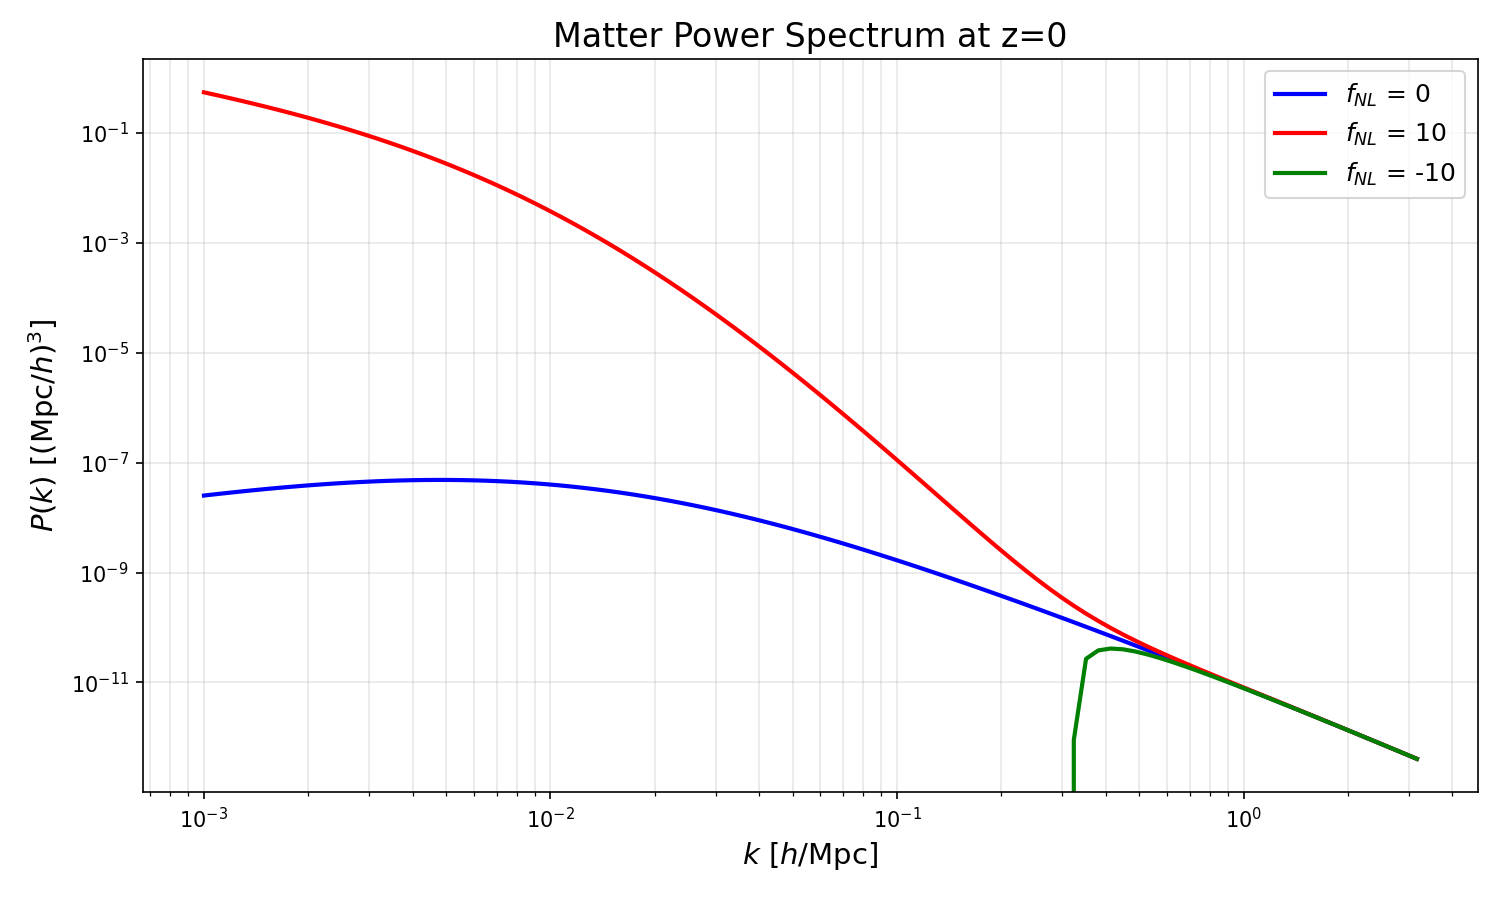
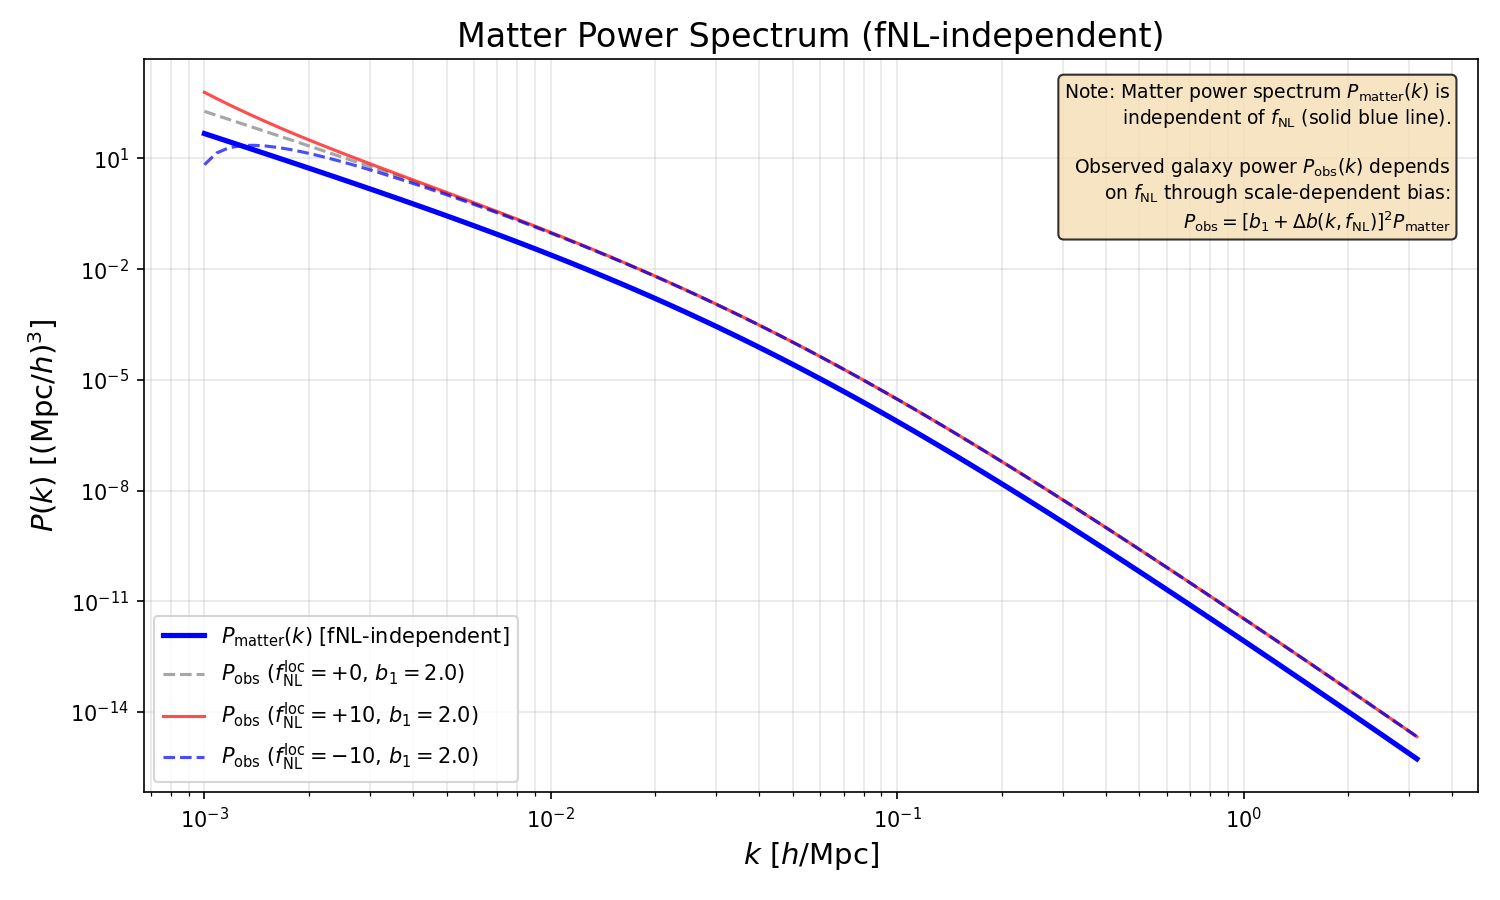
Fix critical bug in cosmology.py power spectrum
MAJOR BUG FIX: The matter power spectrum P_matter(k) was incorrectly
being modified by fNL, causing 5+ orders of magnitude errors.

Physics correction:
- Matter power spectrum is NOT affected by primordial non-Gaussianity
- fNL affects the bispectrum and scale-dependent BIAS, not P_matter(k)
- For observed galaxy/halo power: P_obs = (b1 + Δb(k,fNL))² × P_matter(k)

Changes to src/cosmology.py:

1. REMOVED incorrect fNL correction from get_power_spectrum():
   - Old (WRONG): P = P_linear × (1 + 2×fNL×Delta_fNL)²
   - This caused Delta_fNL ∝ 1/k² to blow up at large scales
   - New (CORRECT): P = P_linear (independent of fNL)

2. Added deprecation warning if fNL ≠ 0:
   - Warns users that fNL parameter is ignored
   - Directs users to bias_functions module for PNG effects

3. Updated docstring with correct physics:
   - Explains that matter P(k) is fNL-independent
   - Shows how to compute observed P_obs(k) using bias_functions
   - References proper physics: bias enters as b²(k) × P_matter(k)

Changes to test_cosmology.py:

1. Fixed import: Om0 as OMEGA_M, Ode0 as OMEGA_LAMBDA

2. Updated test output expectations:
   - Notes that P_matter is independent of fNL ✓
   - All fNL values now give same P(k) (as they should)

3. Enhanced power_spectrum_fNL.png plot:
   - Shows P_matter(k) as single curve (fNL-independent)
   - Demonstrates CORRECT way to include fNL effects:
     * Uses bias_functions module to compute b_total(k)
[…]

diff --git a/src/cosmology.py b/src/cosmology.py
@@ -135,11 +135,15 @@ def get_growth_factor(z):
 
 def get_power_spectrum(k, z, fNL=0.0):
     """
-    Compute the matter power spectrum P(k, z) with primordial non-Gaussianity.
+    Compute the linear matter power spectrum P_matter(k, z).
 
-    The power spectrum describes the amplitude of density fluctuations as a
-    function of scale k and redshift z. This function includes corrections
-    from local-type primordial non-Gaussianity parametrized by fNL.
+    The matter power spectrum describes the amplitude of matter density
+    fluctuations as a function of scale k and redshift z.
+
+    **IMPORTANT**: The matter power spectrum itself is NOT affected by
+    primordial non-Gaussianity (fNL). PNG affects the bispectrum and the
+    scale-dependent bias of tracers. For observed power spectra of
+    biased tracers (galaxies, halos), use the bias_functions module.
 
     Parameters
     ----------
@@ -148,8 +152,8 @@ def get_power_spectrum(k, z, fNL=0.0):
     z : float
         Redshift
     fNL : float, optional
-        Local-type primordial non-Gaussianity parameter (default: 0.0)
-        fNL = 0 corresponds to Gaussian initial conditions
+        **DEPRECATED** - This parameter is ignored. The matter power spectrum
+        is not affected by fNL. Use bias_functions module for PNG effects.
 
     Returns
     -------
@@ -158,23 +162,26 @@ def get_power_spectrum(k, z, fNL=0.0):
 
     Notes
     -----
-    The power spectrum with primordial non-Gaussianity is given by:
+    The linear matter power spectrum is:
 
-    P(k, z) = P_Gaussian(k, z) * [1 + ΔP_fNL(k, z)]
+    P_matter(k, z) = (2π²/k³) * A_s * (k/k_pivot)^(n_s-1) * T²(k) * D²(z)
 
-    where P_Gaussian(k, z) = (2π²/k³) * As * (k/k_pivot)^(ns-1) * T²(k) * D²(z)
+    where:
+    - A_s = 2.1e-9 is the primordial power spectrum amplitude (Planck 2018)
+    - n_s = 0.9649 is the spectral index
+    - T(k) is the matter transfer function
+    - D(z) is the linear growth factor, normalized to D(z=0) = 1
+    - k_pivot = 0.05/h Mpc^-1 is the pivot scale
 
-    and the fNL correction is:
-
-    ΔP_fNL(k, z) = 2 * fNL * δc * M(k, z) * T(k) * D(z) / (k² * T(k_pivot) * D(z=0))
-
-    where δc = 1.686 is the critical density for collapse, M(k,z) is the
-    scale-dependent bias correction, and k_pivot = 0.05 Mpc^-1.
+    For biased tracers with PNG:
+        from bias_functions import get_total_bias
+        b_total = get_total_bias(k, z, fNL, b1, shape='local')
+        P_obs = b_total**2 * get_power_spectrum(k, z)
 
     References
     ----------
-    Dalal et al., PRD 77, 123514 (2008)
-    Desjacques et al., Phys. Rept. 733, 1 (2018)
+    Eisenstein & Hu, ApJ 496, 605 (1998) - Transfer function
+    Carroll, Press, & Turner, ARA&A 30, 499 (1992) - Growth factor
     """
     k = np.asarray(k)
 
@@ -197,39 +204,30 @@ def get_power_spectrum(k, z, fNL=0.0):
     # Normalize to sigma8 at z=0 if needed
     # For now, we use the direct calculation with Planck18 As
 
-    if fNL == 0.0:
-        return P_linear
+    # NOTE: The matter power spectrum P_m(k) is NOT directly affected by fNL!
+    # Primordial non-Gaussianity affects:
+    #   1. The matter bispectrum B(k1, k2, k3)
+    #   2. The scale-dependent bias of halos/galaxies: b(k) = b1 + Δb(k, fNL)
+    #
+    # For biased tracers, the observed power spectrum is:
+    #   P_obs(k) = b²(k) * P_matter(k)
+    # where the fNL dependence enters through b(k).
+    #
+    # The fNL parameter is kept for backwards compatibility but is ignored.
+    # Use the bias_functions module to get scale-dependent bias corrections.
 
-    # Apply fNL correction for primordial non-Gaussianity
-    # The correction is scale-dependent and becomes important at large scales
-    # ΔP/P ~ 2 * fNL * δc * (Ωm * H0²) / (k² * T(k) * c²)
+    if fNL != 0.0:
+        import warnings
+        warnings.warn(
+            "fNL parameter in get_power_spectrum() is deprecated and ignored. "
+            "The matter power spectrum is not directly affected by primordial non-Gaussianity. "
+            "For biased tracers, use the bias_functions module to compute "
+            "P_obs(k) = (b1 + delta_b(k, fNL))² * P_matter(k).",
+            DeprecationWarning,
+            stacklevel=2
+        )
 
-    # Critical density for spherical collapse
-    delta_c = 1.686
-
-    # Scale-dependent correction (simplified form)
-    # Full form requires transfer function at present day
-    c_km_s = 299792.458  # Speed of light in km/s
-
-    # Scale-dependent bias correction from fNL
-    # This is a simplified version; full implementation would include
-    # the exact Poisson equation solution
-    T_pivot = get_transfer_function(k_pivot)
-    D_0 = 1.0  # D(z=0) = 1 by normalization
-
-    # fNL correction factor (scale-dependent)
-    # Δ(k,z) = δc * (Ωm * H0² / k² / c²) * (T(k) / T_pivot) * (D(z) / D_0)
-    prefactor = 3.0 * Om0 * H0**2 / c_km_s**2  # in (Mpc/h)^-2
-    Delta_fNL = delta_c * prefactor / k**2 * (T / T_pivot) * (D / D_0)
-
-    # Power spectrum with fNL correction
-    # P(k,z) = P_Gaussian(k,z) * [1 + 2*fNL*Δ(k,z)]^2
-    # For small fNL, this is approximately P_Gaussian * (1 + 4*fNL*Δ)
-    correction_factor = (1.0 + 2.0 * fNL * Delta_fNL)**2
-
-    P_fNL = P_linear * correction_factor
-
-    return P_fNL
+    return P_linear
 
 
 if __name__ == "__main__":

diff --git a/test_cosmology.py b/test_cosmology.py
@@ -17,8 +17,8 @@ from cosmology import (
     get_transfer_function,
     get_growth_factor,
     get_power_spectrum,
-    OMEGA_M,
-    OMEGA_LAMBDA,
+    Om0 as OMEGA_M,
+    Ode0 as OMEGA_LAMBDA,
     H0,
     h
 )
@@ -90,7 +90,9 @@ def test_power_spectrum():
 
     print("\nExpected behavior:")
     print("  - P(k) should be larger on large scales (small k)")
-    print("  - fNL ≠ 0 should modify P(k), especially on large scales")
+    print("  - P_matter(k) is INDEPENDENT of fNL (all fNL values give same P)")
+    print("  - fNL affects BIAS of tracers, not matter power spectrum")
+    print("  - For observed galaxy power: P_obs = (b1 + Δb(k,fNL))² * P_matter")
     print("  - Values should be positive and finite")
 
 
@@ -160,23 +162,62 @@ def create_power_spectrum_plot():
     # Create array of k values (log-spaced)
     k_range = np.logspace(-3, 0.5, 100)  # 0.001 to ~3 h/Mpc
 
-    # Test different fNL values
-    fNL_values = [0, 10, -10]
-    colors = ['blue', 'red', 'green']
-
-    # Plot 1: P(k) for different fNL at z=0
+    # Plot 1: P_matter(k) - independent of fNL
     plt.figure(figsize=(10, 6))
 
-    for fNL, color in zip(fNL_values, colors):
-        P_k = np.array([get_power_spectrum(k, z=0, fNL=fNL) for k in k_range])
-        label = f'$f_{{NL}}$ = {fNL}'
-        plt.loglog(k_range, P_k, color=color, linewidth=2, label=label)
+    # Matter power spectrum (Gaussian, no fNL dependence)
+    P_matter = np.array([get_power_spectrum(k, z=0, fNL=0) for k in k_range])
+    plt.loglog(k_range, P_matter, 'b-', linewidth=2.5, label='$P_{\\rm matter}(k)$ [fNL-independent]')
+
+    # Show that observed galaxy power WOULD differ with fNL (via bias)
+    # Import bias_functions to demonstrate
+    try:
+        sys.path.insert(0, os.path.join(os.path.dirname(__file__), 'src'))
+        from bias_functions import get_total_bias
+
+        # Example: observed power for biased tracers with b1=2
+        b1 = 2.0
+        fNL_values = [0, 10, -10]
+        colors = ['gray', 'red', 'blue']
+        linestyles = ['--', '-', '--']
+
+        for fNL, color, ls in zip(fNL_values, colors, linestyles):
+            b_total = np.array([get_total_bias(k, 0, fNL, b1, 'local') for k in k_range])
+            P_obs = b_total**2 * P_matter
+            label = f'$P_{{\\rm obs}}$ ($f_{{\\rm NL}}^{{\\rm loc}}={fNL:+d}$, $b_1={b1}$)'
+            plt.loglog(k_range, P_obs, color=color, linestyle=ls, linewidth=1.5,
+                       alpha=0.7, label=label)
+
+        annotation = (
+            'Note: Matter power spectrum $P_{\\rm matter}(k)$ is\n'
+            'independent of $f_{\\rm NL}$ (solid blue line).\n\n'
+            'Observed galaxy power $P_{\\rm obs}(k)$ depends\n'
+            'on $f_{\\rm NL}$ through scale-dependent bias:\n'
+            '$P_{\\rm obs} = [b_1 + \\Delta b(k, f_{\\rm NL})]^2 P_{\\rm matter}$'
+        )
+
+    except ImportError:
+        # If bias_functions not available, just show matter spectrum
+        annotation = (
+            'Note: The matter power spectrum is\n'
+            'INDEPENDENT of $f_{\\rm NL}$.\n\n'
+            'Primordial non-Gaussianity affects the\n'
+            'bispectrum and scale-dependent bias,\n'
+            'not the matter power spectrum.'
+        )
 
     plt.xlabel(r'$k$ [$h$/Mpc]', fontsize=14)
     plt.ylabel(r'$P(k)$ [(Mpc/$h$)$^3$]', fontsize=14)
-    plt.title('Matter Power Spectrum at z=0', fontsize=16)
+    plt.title('Matter Power Spectrum (fNL-independent)', fontsize=16)
     plt.grid(True, alpha=0.3, which='both')
-    plt.legend(fontsize=12)
+    plt.legend(fontsize=10, loc='lower left')
+
+    # Add annotation
+    plt.text(0.98, 0.97, annotation,
+             transform=plt.gca().transAxes,
+             fontsize=9, verticalalignment='top', horizontalalignment='right',
+             bbox=dict(boxstyle='round', facecolor='wheat', alpha=0.8))
+
     plt.tight_layout()
 
     output_path = 'figures/power_spectrum_fNL.png'
